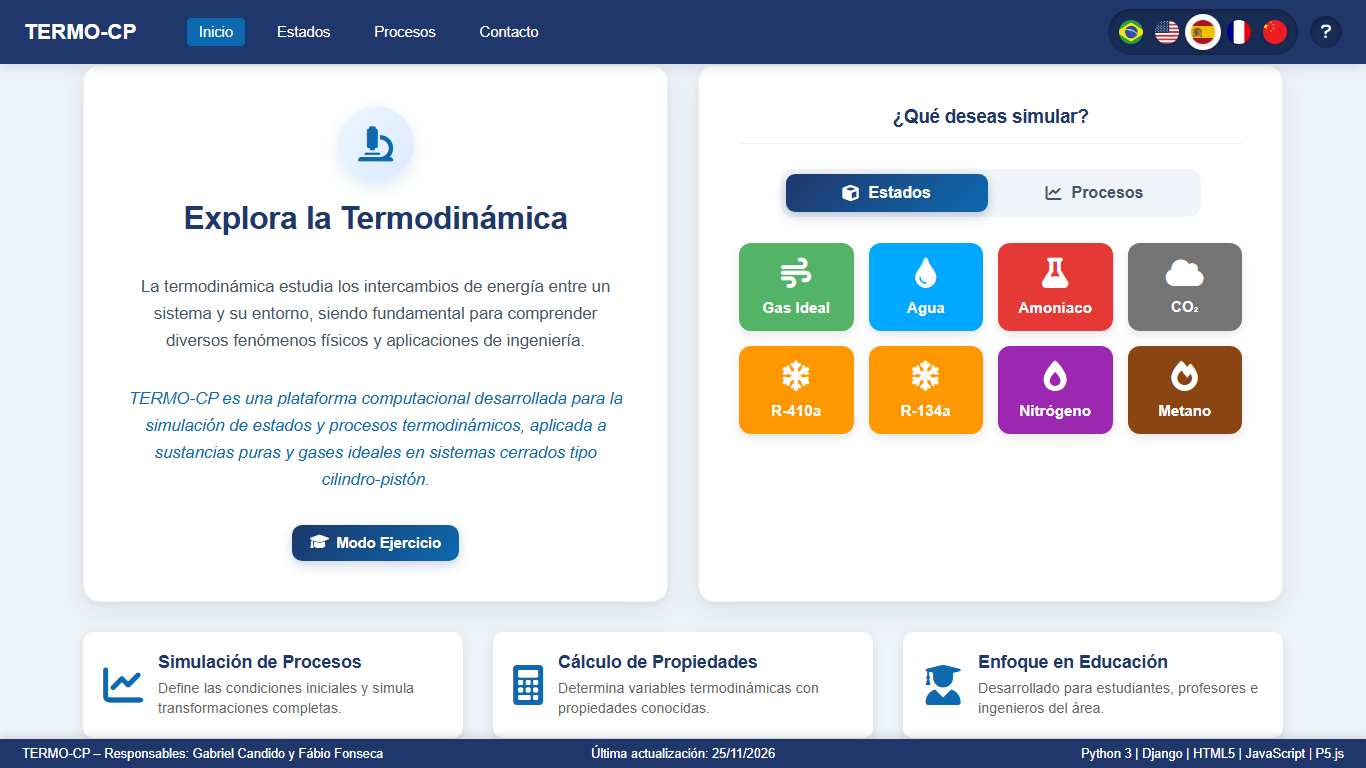
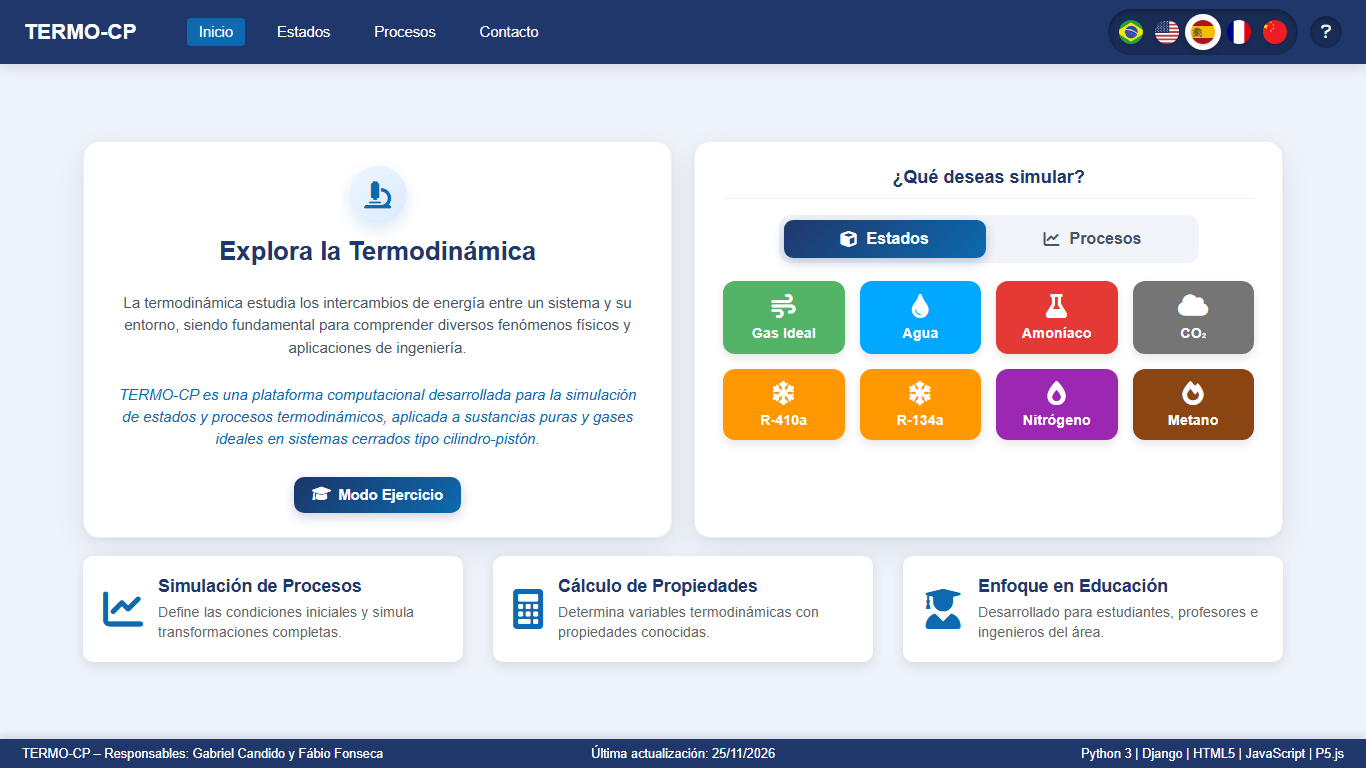
Ajustar espacamento da Home para notebook e refazer os 5 prints dos READMEs

diff --git a/myapp/templates/Inicio.html b/myapp/templates/Inicio.html
@@ -307,6 +307,22 @@
         box-shadow: 0 10px 22px rgba(15, 23, 42, 0.18) !important;
         filter: brightness(1.07) !important;
     }
+
+    /* Respiro confortavel em telas de notebook (evita colar no header/footer) */
+    @media (max-height: 840px), (max-width: 1440px) {
+        .home-wrapper { padding: 24px 24px; gap: 18px; }
+        .content-wrapper { gap: 22px; }
+        .hero-section, .container { padding: 24px 28px !important; }
+        .hero-icon { width: 58px; height: 58px; margin: 0 auto 12px !important; font-size: 1.7em !important; }
+        .hero-section h2 { font-size: 1.65em; margin-bottom: 10px; }
+        .hero-section p { font-size: 0.94em; line-height: 1.48; margin-bottom: 10px; }
+        .container h3 { padding-bottom: 10px; margin-bottom: 16px; font-size: 1.15em; }
+        .tabs-container { margin: 0 auto 18px !important; }
+        .sub-card { padding: 12px 5px; gap: 7px; font-size: 0.9em; }
+        .sub-card i { font-size: 1.7em; }
+        .features-row { gap: 18px; }
+        .feature-box { padding: 14px 16px; }
+    }
 </style>
 {% endblock %}
 
